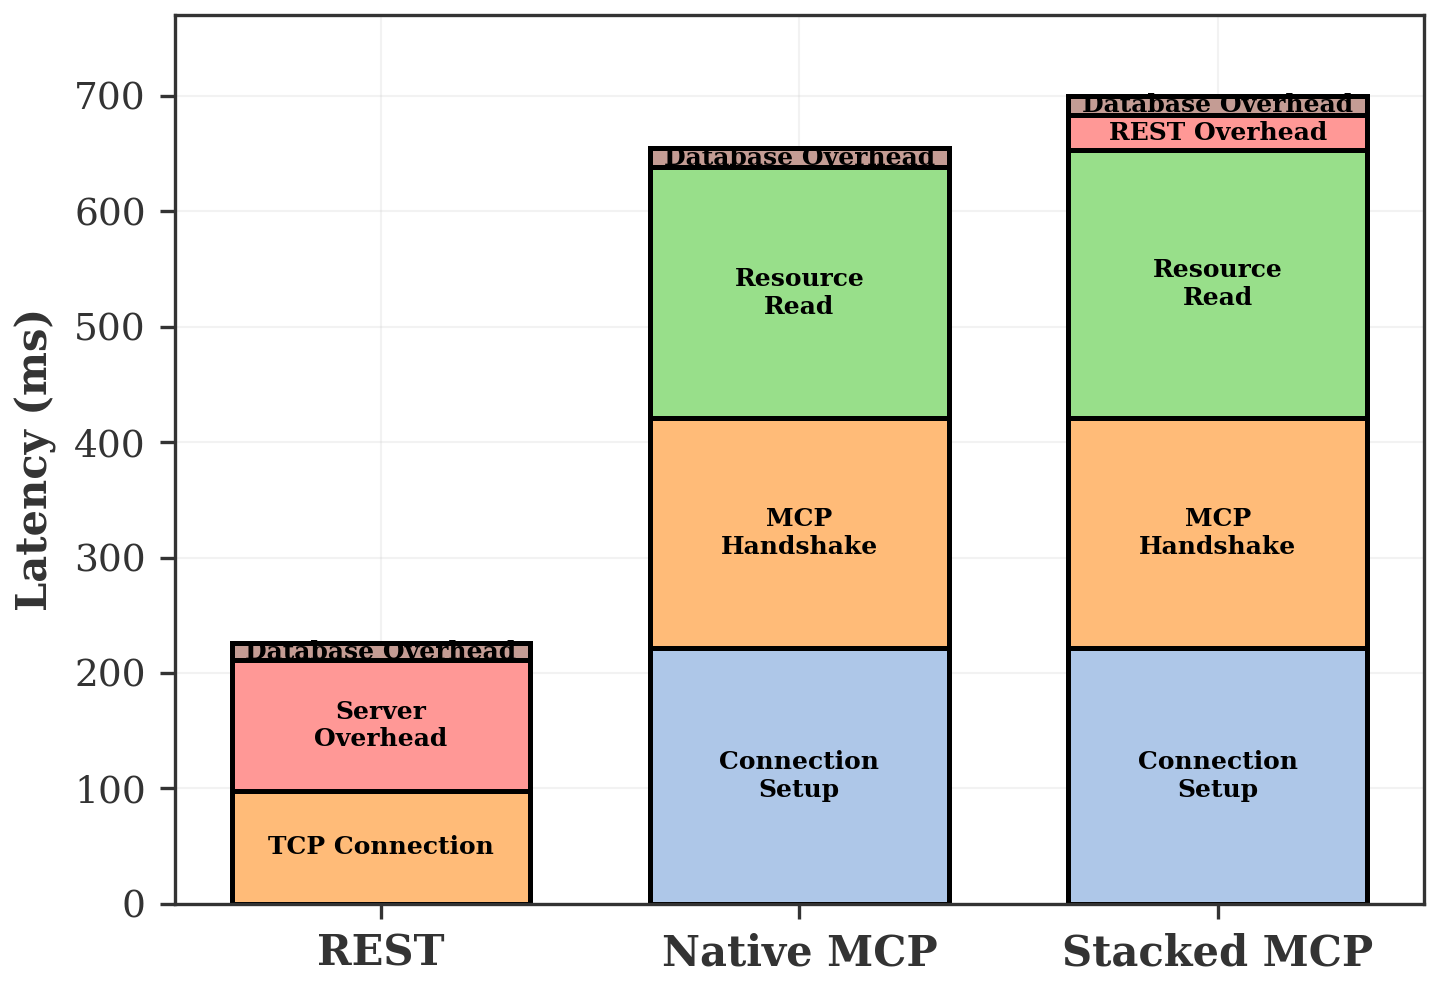
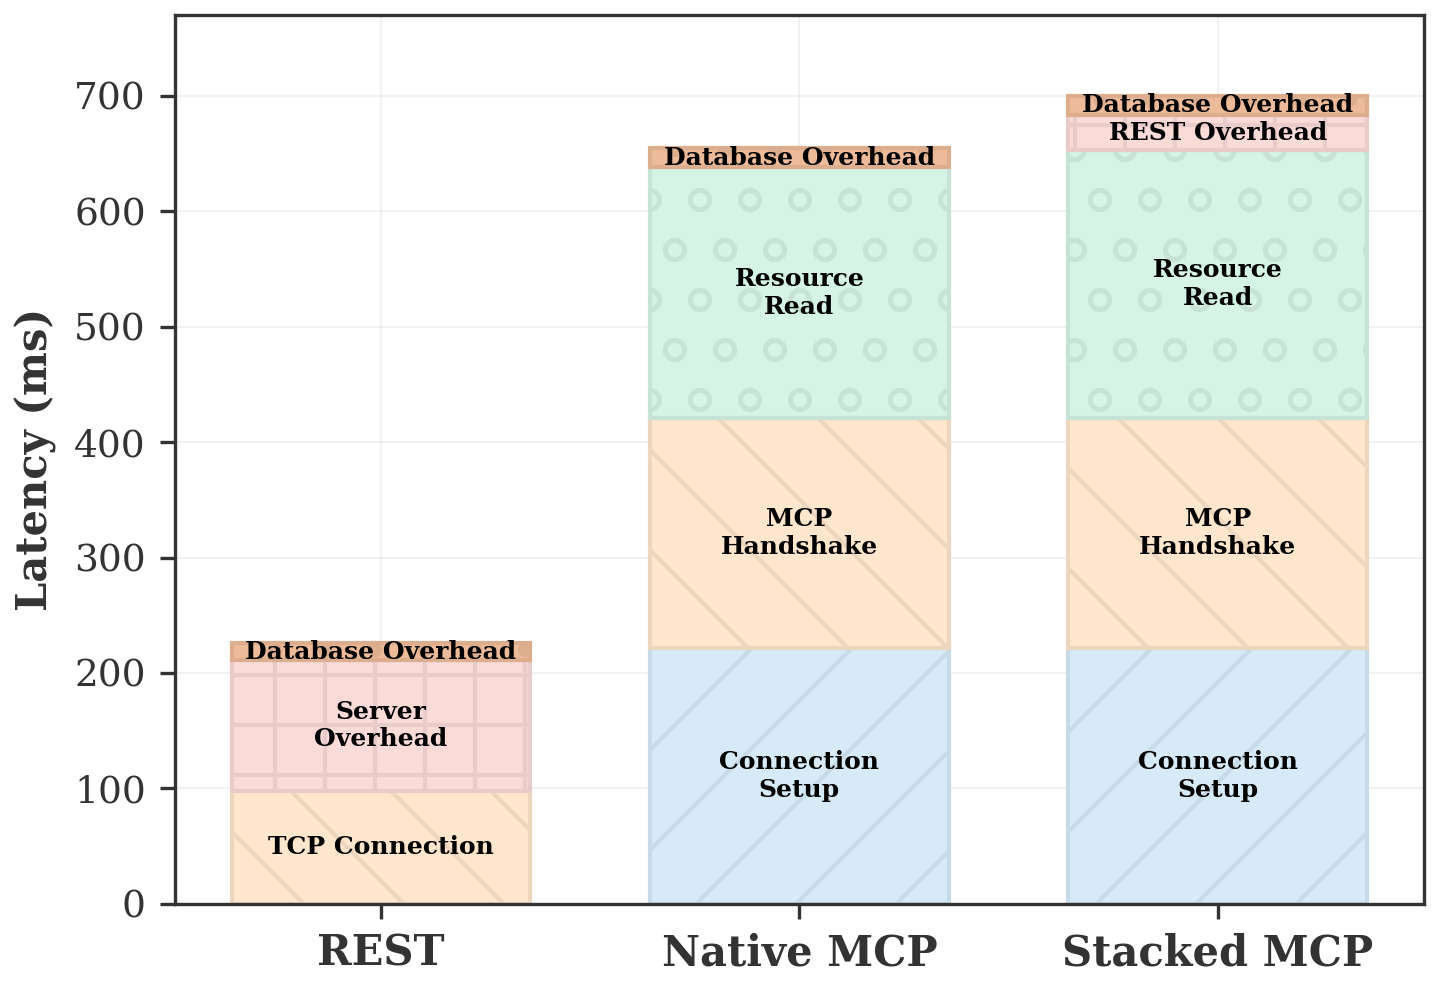
feat: enhance latency visualization with improved color and pattern differentiation
- Updated the latency visualization script to use lighter pastel colors and distinct hatch patterns for better printability and component identification.
- Modified the plotting logic to incorporate patterns alongside colors for each latency component, enhancing clarity in the comparison plots.
- Adjusted the color definitions to ensure consistent representation across REST, Native MCP, and Stacked MCP components.

diff --git a/microbenchmark/rest/visualize_latency_gantt.py b/microbenchmark/rest/visualize_latency_gantt.py
@@ -3,7 +3,8 @@
 Side-by-side stacked bar plot comparing REST, Native MCP, and Stacked MCP request latency breakdowns.
 Ignores latency components < 5ms for cleaner publication-ready plots.
 Labels are displayed directly on bars with black text on light backgrounds.
-Same components use consistent colors across all bars (e.g., Database Overhead is same color in all bars).
+Same components use consistent colors and hatch patterns across all bars for easy identification.
+Uses lighter/pastel colors with distinct hatch patterns for better printability.
 """
 
 import csv
@@ -67,21 +68,35 @@ plt.rcParams.update({
     'mathtext.default': 'regular',
 })
 
-# Color scheme - consistent colors for same components across all bars
+# Color scheme - lighter colors with patterns for better distinction
 COLORS = {
     'black': '#000000',      # Primary text/borders
     'white': '#ffffff',      # Background
-    # Component-specific colors (used across REST, Stacked MCP, Native MCP)
-    'dns': '#AEC7E8',            # Light blue - DNS Lookup
-    'tcp': '#FFBB78',            # Light orange - TCP Connection
-    'tls': '#98DF8A',            # Light green - TLS Handshake
-    'connection': '#AEC7E8',     # Light blue - Connection Setup (same as DNS)
-    'handshake': '#FFBB78',      # Light orange - MCP Handshake (same as TCP)
-    'resource': '#98DF8A',       # Light green - Resource Read (same as TLS)
-    'server': '#FF9896',         # Light red - Server Overhead
-    'transfer': '#C5B0D5',       # Light purple - Content Transfer
-    'rest_overhead': '#FF9896',  # Light red - REST Overhead (same as Server)
-    'db': '#C49C94',             # Light brown - Database Overhead (consistent across all)
+    # Component-specific colors - lighter/pastel tones
+    'dns': '#D6EAF8',            # Very light blue - DNS Lookup
+    'tcp': '#FFE6CC',            # Very light orange - TCP Connection
+    'tls': '#D5F4E6',            # Very light green - TLS Handshake
+    'connection': '#D6EAF8',     # Very light blue - Connection Setup (same as DNS)
+    'handshake': '#FFE6CC',      # Very light orange - MCP Handshake (same as TCP)
+    'resource': '#D5F4E6',       # Very light green - Resource Read (same as TLS)
+    'server': '#FADBD8',         # Very light red - Server Overhead
+    'transfer': '#E8DAEF',       # Very light purple - Content Transfer
+    'rest_overhead': '#FADBD8',  # Very light red - REST Overhead (same as Server)
+    'db': '#EDBB99',             # Very light brown - Database Overhead (consistent across all)
+}
+
+# Hatch patterns for each component - simple and distinct
+PATTERNS = {
+    'dns': '/',
+    'tcp': '\\',
+    'tls': 'o',
+    'connection': '/',           # Same as DNS
+    'handshake': '\\',           # Same as TCP
+    'resource': 'o',             # Same as TLS
+    'server': '+',
+    'transfer': 'x',
+    'rest_overhead': '+',        # Same as Server
+    'db': '.',
 }
 
 
@@ -242,72 +257,81 @@ def create_comparison_plot(rest_stats, stacked_mcp_stats, native_mcp_stats, outp
 
     fig, ax = plt.subplots(figsize=(5, 3.5))
 
-    # Define REST components - each component has its own color
+    # Define REST components - each component has its own color and pattern
     # Using 2-line labels for better fit
     rest_components = [
-        ('DNS Lookup', 'DNS\nLookup', COLORS['dns']),
-        ('TCP Connection', 'TCP\nConnection', COLORS['tcp']),
-        ('TLS Handshake', 'TLS\nHandshake', COLORS['tls']),
-        ('Server Overhead', 'Server\nOverhead', COLORS['server']),
-        ('Content Transfer', 'Content\nTransfer', COLORS['transfer']),
+        ('DNS Lookup', 'DNS\nLookup', COLORS['dns'], PATTERNS['dns']),
+        ('TCP Connection', 'TCP\nConnection', COLORS['tcp'], PATTERNS['tcp']),
+        ('TLS Handshake', 'TLS\nHandshake', COLORS['tls'], PATTERNS['tls']),
+        ('Server Overhead', 'Server\nOverhead', COLORS['server'], PATTERNS['server']),
+        ('Content Transfer', 'Content\nTransfer', COLORS['transfer'], PATTERNS['transfer']),
     ]
     if 'Database Overhead' in rest_stats:
-        rest_components.insert(4, ('Database Overhead', 'Database\nOverhead', COLORS['db']))
+        rest_components.insert(4, ('Database Overhead', 'Database\nOverhead', COLORS['db'], PATTERNS['db']))
 
-    # Define Native MCP components - each component has its own color
+    # Define Native MCP components - each component has its own color and pattern
     # Using 2-line labels for better fit
     native_mcp_components = [
-        ('Connection Setup', 'Connection\nSetup', COLORS['connection']),
-        ('MCP Handshake', 'MCP\nHandshake', COLORS['handshake']),
-        ('Resource Read', 'Resource\nRead', COLORS['resource']),
+        ('Connection Setup', 'Connection\nSetup', COLORS['connection'], PATTERNS['connection']),
+        ('MCP Handshake', 'MCP\nHandshake', COLORS['handshake'], PATTERNS['handshake']),
+        ('Resource Read', 'Resource\nRead', COLORS['resource'], PATTERNS['resource']),
     ]
     if 'Database Overhead' in native_mcp_stats:
-        native_mcp_components.append(('Database Overhead', 'Database\nOverhead', COLORS['db']))
+        native_mcp_components.append(('Database Overhead', 'Database\nOverhead', COLORS['db'], PATTERNS['db']))
 
-    # Define Stacked MCP components - each component has its own color
+    # Define Stacked MCP components - each component has its own color and pattern
     # Using 2-line labels for better fit
     stacked_mcp_components = [
-        ('Connection Setup', 'Connection\nSetup', COLORS['connection']),
-        ('MCP Handshake', 'MCP\nHandshake', COLORS['handshake']),
-        ('Resource Read', 'Resource\nRead', COLORS['resource']),
+        ('Connection Setup', 'Connection\nSetup', COLORS['connection'], PATTERNS['connection']),
+        ('MCP Handshake', 'MCP\nHandshake', COLORS['handshake'], PATTERNS['handshake']),
+        ('Resource Read', 'Resource\nRead', COLORS['resource'], PATTERNS['resource']),
     ]
     if 'REST Overhead' in stacked_mcp_stats:
-        stacked_mcp_components.append(('REST Overhead', 'REST\nOverhead', COLORS['rest_overhead']))
+        stacked_mcp_components.append(('REST Overhead', 'REST\nOverhead', COLORS['rest_overhead'], PATTERNS['rest_overhead']))
     if 'Database Overhead' in stacked_mcp_stats:
-        stacked_mcp_components.append(('Database Overhead', 'Database\nOverhead', COLORS['db']))
+        stacked_mcp_components.append(('Database Overhead', 'Database\nOverhead', COLORS['db'], PATTERNS['db']))
 
     # Filter REST components >= 5ms
     rest_significant = []
-    for label, display_label, color in rest_components:
+    for label, display_label, color, pattern in rest_components:
         if label in rest_stats:
             duration = rest_stats[label]['mean']
             if duration >= 5.0:
-                rest_significant.append((display_label, color, duration))
+                rest_significant.append((display_label, color, pattern, duration))
 
     # Filter Native MCP components >= 5ms
     native_mcp_significant = []
-    for label, display_label, color in native_mcp_components:
+    for label, display_label, color, pattern in native_mcp_components:
         if label in native_mcp_stats:
             duration = native_mcp_stats[label]['mean']
             if duration >= 5.0:
-                native_mcp_significant.append((display_label, color, duration))
+                native_mcp_significant.append((display_label, color, pattern, duration))
 
     # Filter Stacked MCP components >= 5ms
     stacked_mcp_significant = []
-    for label, display_label, color in stacked_mcp_components:
+    for label, display_label, color, pattern in stacked_mcp_components:
         if label in stacked_mcp_stats:
             duration = stacked_mcp_stats[label]['mean']
             if duration >= 5.0:
-                stacked_mcp_significant.append((display_label, color, duration))
+                stacked_mcp_significant.append((display_label, color, pattern, duration))
+
+    # Helper function to create next darker shade
+    def next_shade(hex_color, factor=0.93):
+        """Create a slightly darker shade of the color for patterns."""
+        import matplotlib.colors as mcolors
+        rgb = mcolors.hex2color(hex_color)
+        darker = tuple(c * factor for c in rgb)
+        return darker
 
     # Create REST stacked bar
     bar_width = 0.25
     rest_x = 0
     bottom = 0
-    for display_label, color, height in rest_significant:
+    for display_label, color, pattern, height in rest_significant:
+        # Pattern uses slightly darker shade of fill color
         ax.bar(rest_x, height, bottom=bottom, color=color,
-              edgecolor=COLORS['black'], linewidth=1.2, alpha=1.0,
-              width=bar_width)
+              edgecolor=next_shade(color), linewidth=1.0, alpha=1.0,
+              width=bar_width, hatch=pattern)
 
         # Add text label on the bar - single line if < 100ms, two lines otherwise
         label_text = display_label.replace('\n', ' ') if height < 100 else display_label
@@ -320,10 +344,11 @@ def create_comparison_plot(rest_stats, stacked_mcp_stats, native_mcp_stats, outp
     # Create Native MCP bar (next to REST)
     native_mcp_x = 0.35
     bottom = 0
-    for display_label, color, height in native_mcp_significant:
+    for display_label, color, pattern, height in native_mcp_significant:
+        # Pattern uses slightly darker shade of fill color
         ax.bar(native_mcp_x, height, bottom=bottom, color=color,
-              edgecolor=COLORS['black'], linewidth=1.2, alpha=1.0,
-              width=bar_width)
+              edgecolor=next_shade(color), linewidth=1.0, alpha=1.0,
+              width=bar_width, hatch=pattern)
 
         # Add text label on the bar - single line if < 100ms, two lines otherwise
         label_text = display_label.replace('\n', ' ') if height < 100 else display_label
@@ -336,10 +361,11 @@ def create_comparison_plot(rest_stats, stacked_mcp_stats, native_mcp_stats, outp
     # Create Stacked MCP bar
     stacked_mcp_x = 0.7
     bottom = 0
-    for display_label, color, height in stacked_mcp_significant:
+    for display_label, color, pattern, height in stacked_mcp_significant:
+        # Pattern uses slightly darker shade of fill color
         ax.bar(stacked_mcp_x, height, bottom=bottom, color=color,
-              edgecolor=COLORS['black'], linewidth=1.2, alpha=1.0,
-              width=bar_width)
+              edgecolor=next_shade(color), linewidth=1.0, alpha=1.0,
+              width=bar_width, hatch=pattern)
 
         # Add text label on the bar - single line if < 100ms, two lines otherwise
         label_text = display_label.replace('\n', ' ') if height < 100 else display_label
@@ -356,9 +382,9 @@ def create_comparison_plot(rest_stats, stacked_mcp_stats, native_mcp_stats, outp
 
     # Set y-axis limit with some padding
     max_height = max(
-        sum(h for _, _, h in rest_significant),
-        sum(h for _, _, h in native_mcp_significant),
-        sum(h for _, _, h in stacked_mcp_significant)
+        sum(h for _, _, _, h in rest_significant),
+        sum(h for _, _, _, h in native_mcp_significant),
+        sum(h for _, _, _, h in stacked_mcp_significant)
     )
     ax.set_ylim(0, max_height * 1.1)
 
